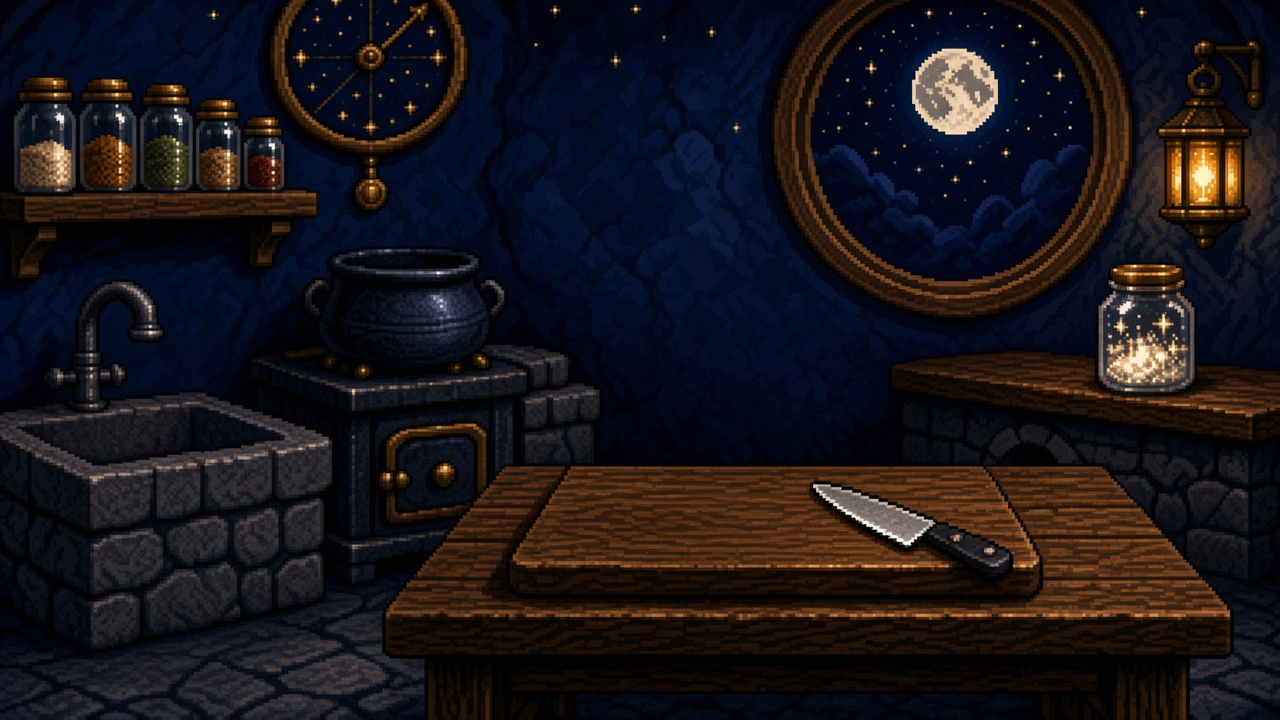
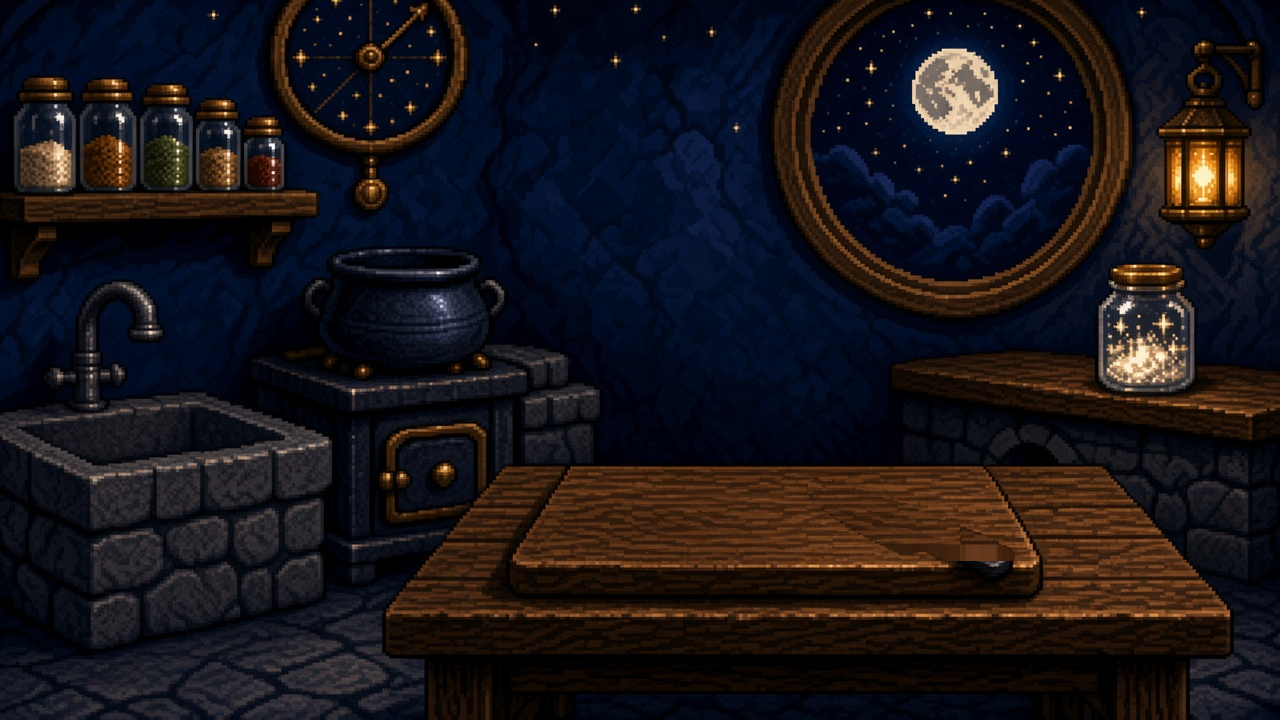
Fit the kitchen on phone landscape without cropping (#9)
Phone landscape used width-controls-height on the 16:9 stage, so the
playfield overflowed the short side. Fit the art instead, move HUD and
dialogue to a side column on wide screens, and show only the pickup
knife sprite on a dry cutting board.

Changed region(s): [[0.625, 0.6722, 0.8125, 0.7944]]

diff --git a/README.md b/README.md
@@ -11,7 +11,7 @@
 
 Godot 4 の HTML5 書き出しです。初回は wasm と pck でおよそ 55MB 読み込みます。
 クリックで進みます。失敗はありません。タイトルは「はじめる」または Enter です。
-料理は左の棚の食材を持って、まな板・蛇口・鍋へ置きます。スマホは縦向きで、絵は 16:9 のまま上下に操作がつきます。
+料理は左の棚の食材を持って、まな板・蛇口・鍋へ置きます。スマホは縦でも横でも、キッチン全体が画面に収まります。横画面では操作を右に寄せて、絵を16:9のままフィットさせます。
 
 進行はブラウザ内（Godot の `user://`）に保存されます。
 
